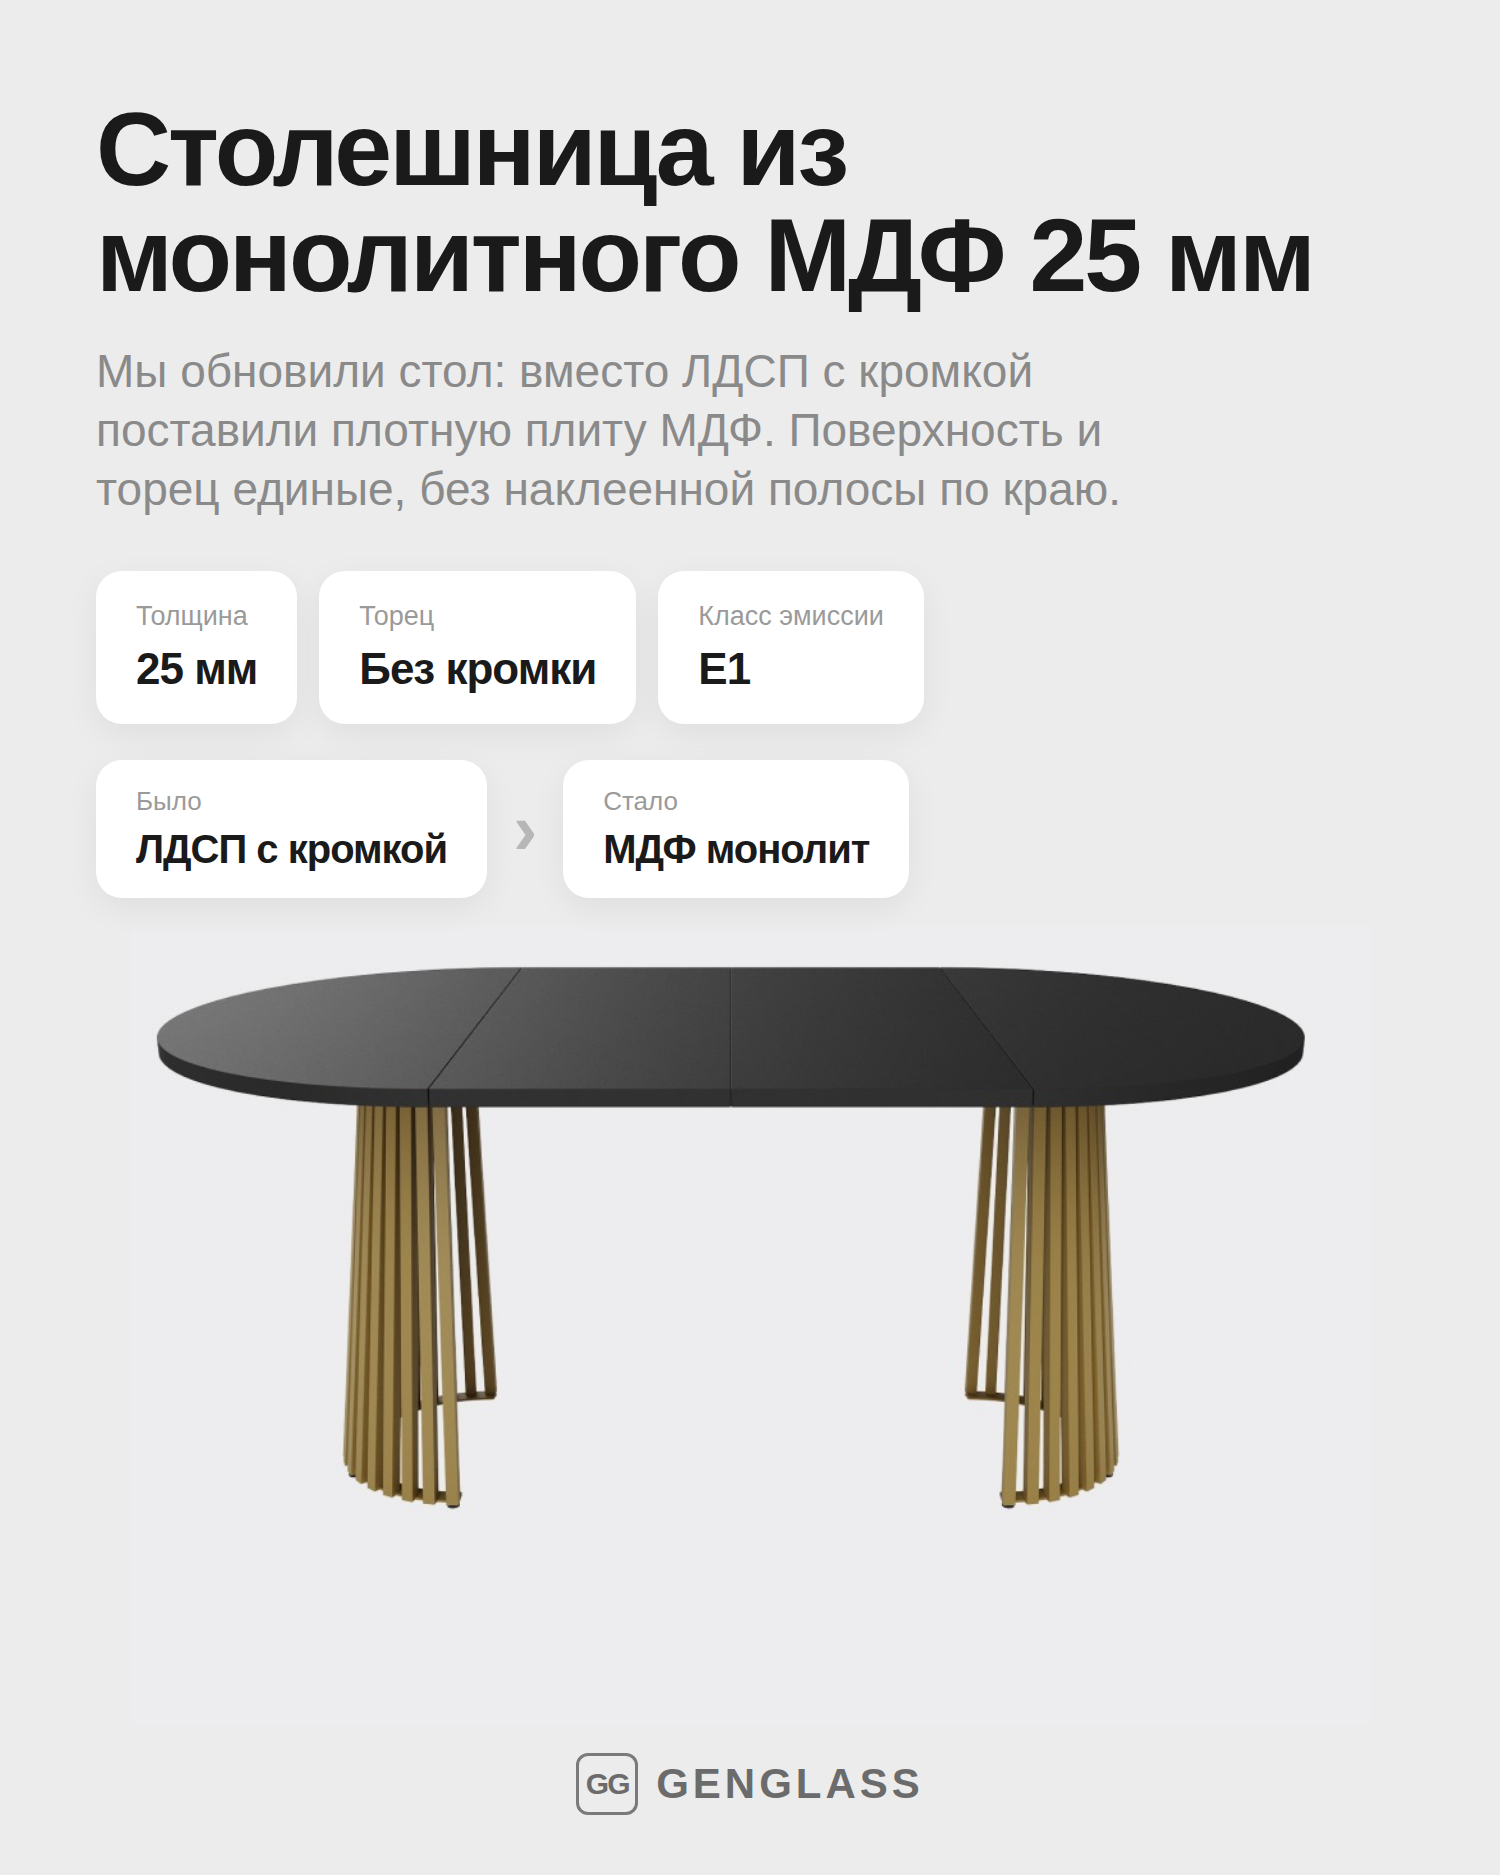
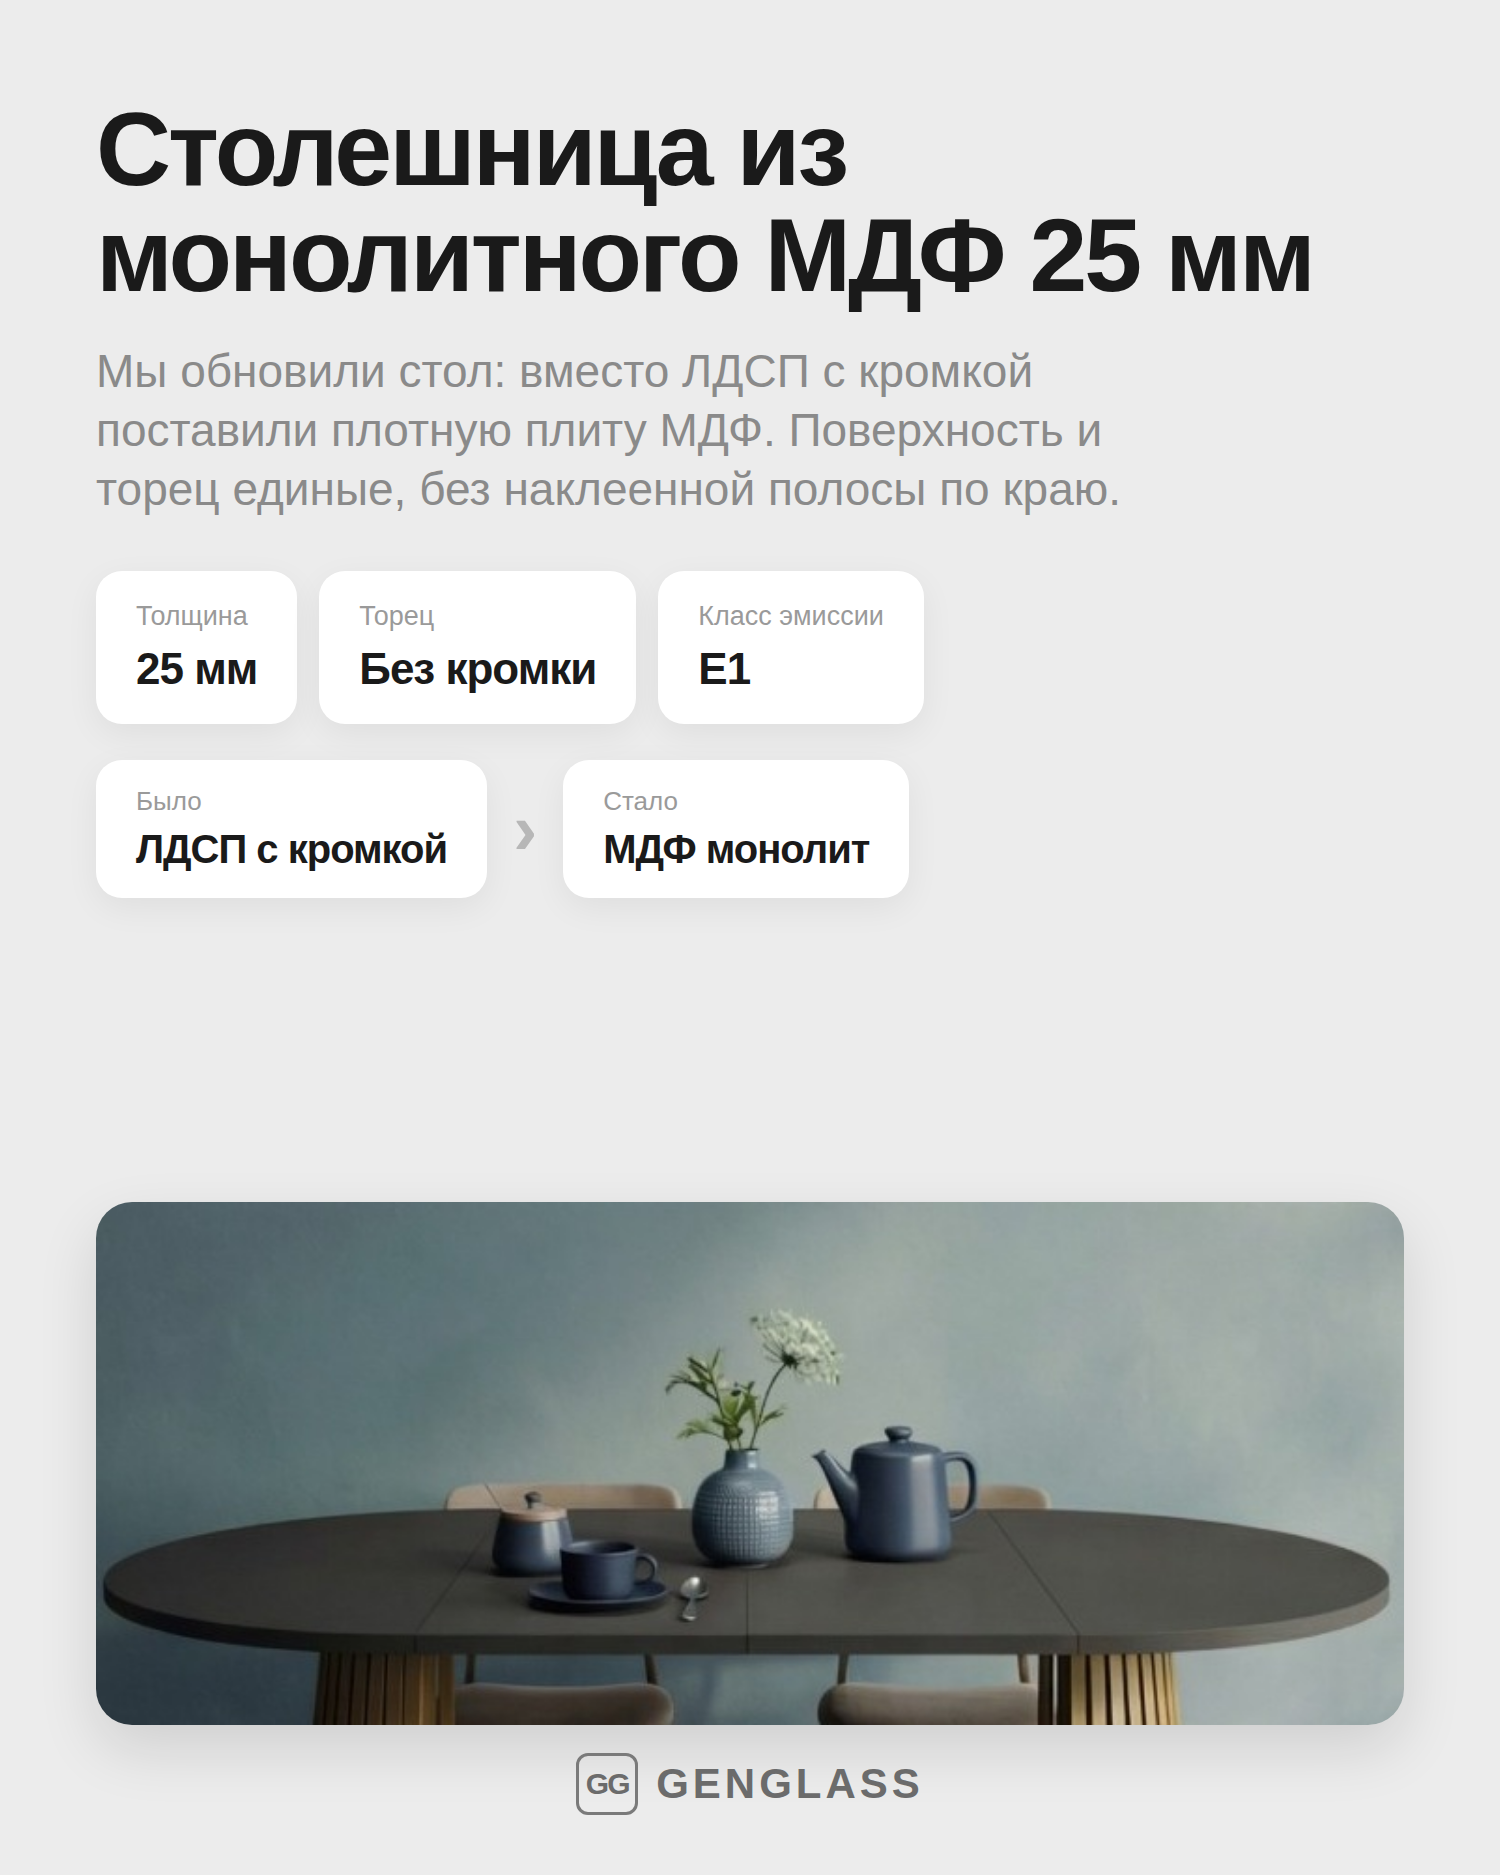
KONUX MDF cards: interior render inside each card
Both cards now use an interior render as a rounded photo block:
- Card A: close framing of the tabletop in the interior (material focus)
- Card B: wide dining-scene framing
Both derived from the single interior render available in the provided
materials, cropped to two distinct framings.

Claude-Session: https://claude.ai/code/session_0138UNtjXMgct5sLFrQvKXsM

diff --git a/konux-infographic/mockup-A.html b/konux-infographic/mockup-A.html
@@ -33,7 +33,7 @@
   </div>
 
   <div class="hero">
-    <img src="img/table-clean.jpeg" alt="Обеденный стол KONUX со столешницей из МДФ">
+    <img src="img/interior-close.jpeg" alt="Столешница KONUX из монолитного МДФ в интерьере">
   </div>
 
   <div class="logo">
@@ -96,7 +96,7 @@
     display: flex; justify-content: center;
     z-index: 1;
   }
-  .hero img { width: 1240px; height: auto; }
+  .hero img { width: 1308px; height: auto; border-radius: 36px; box-shadow: 0 24px 60px rgba(0,0,0,0.12); }
 
   .logo {
     position: absolute;
